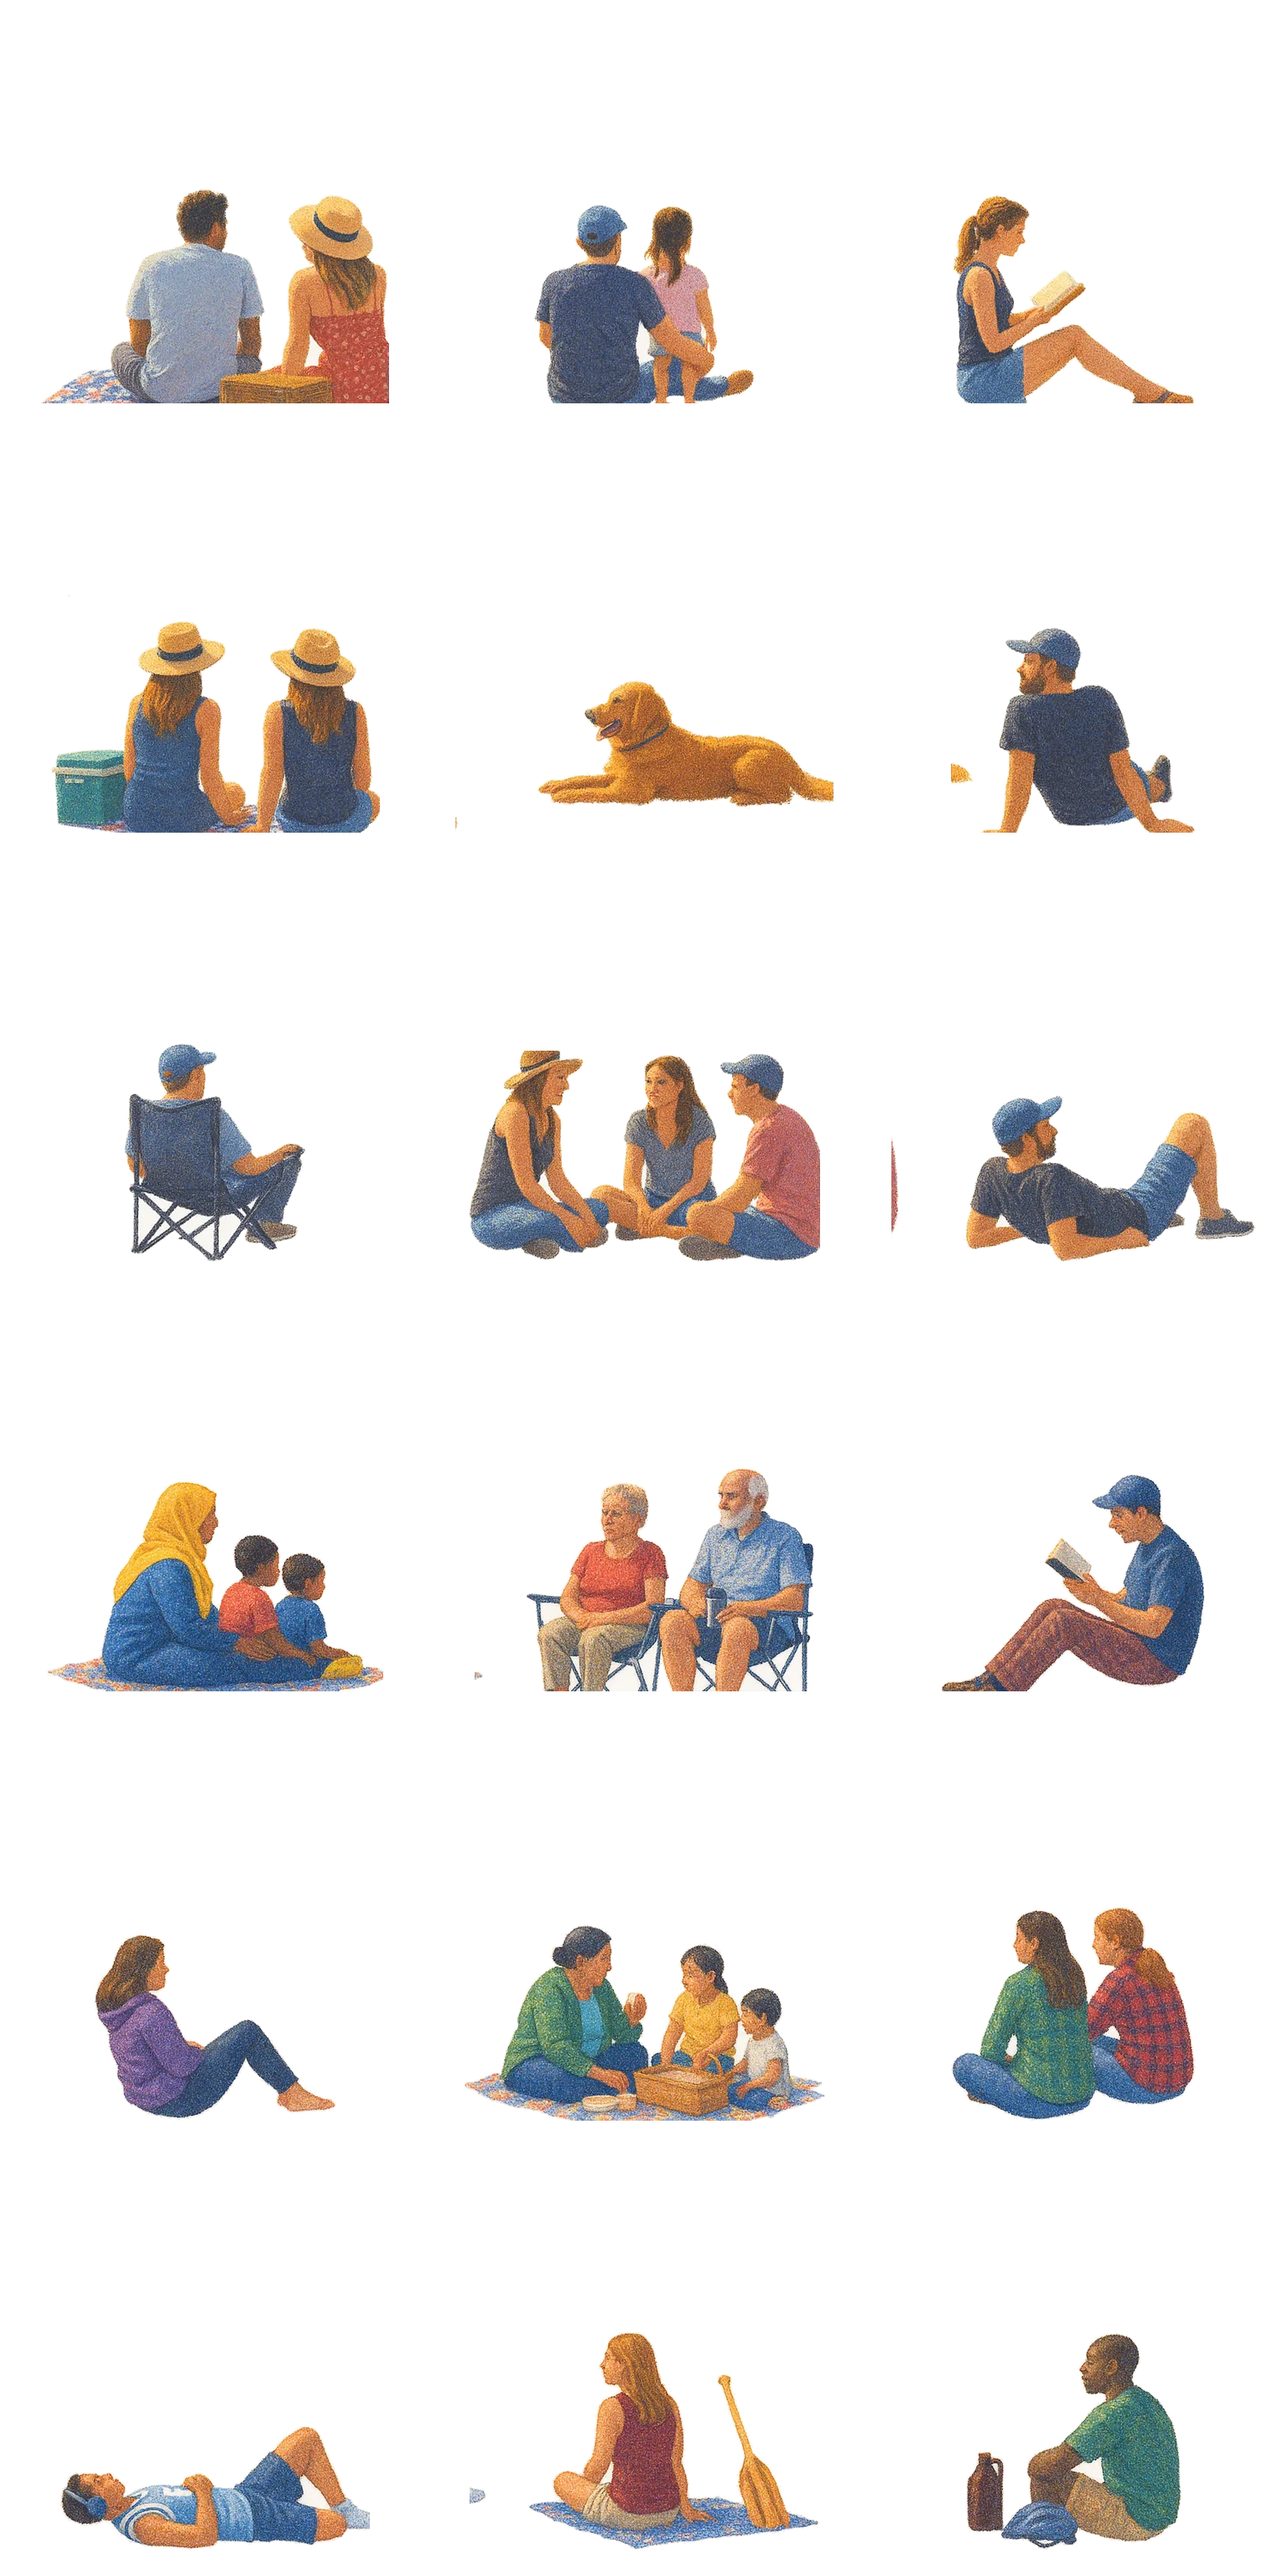
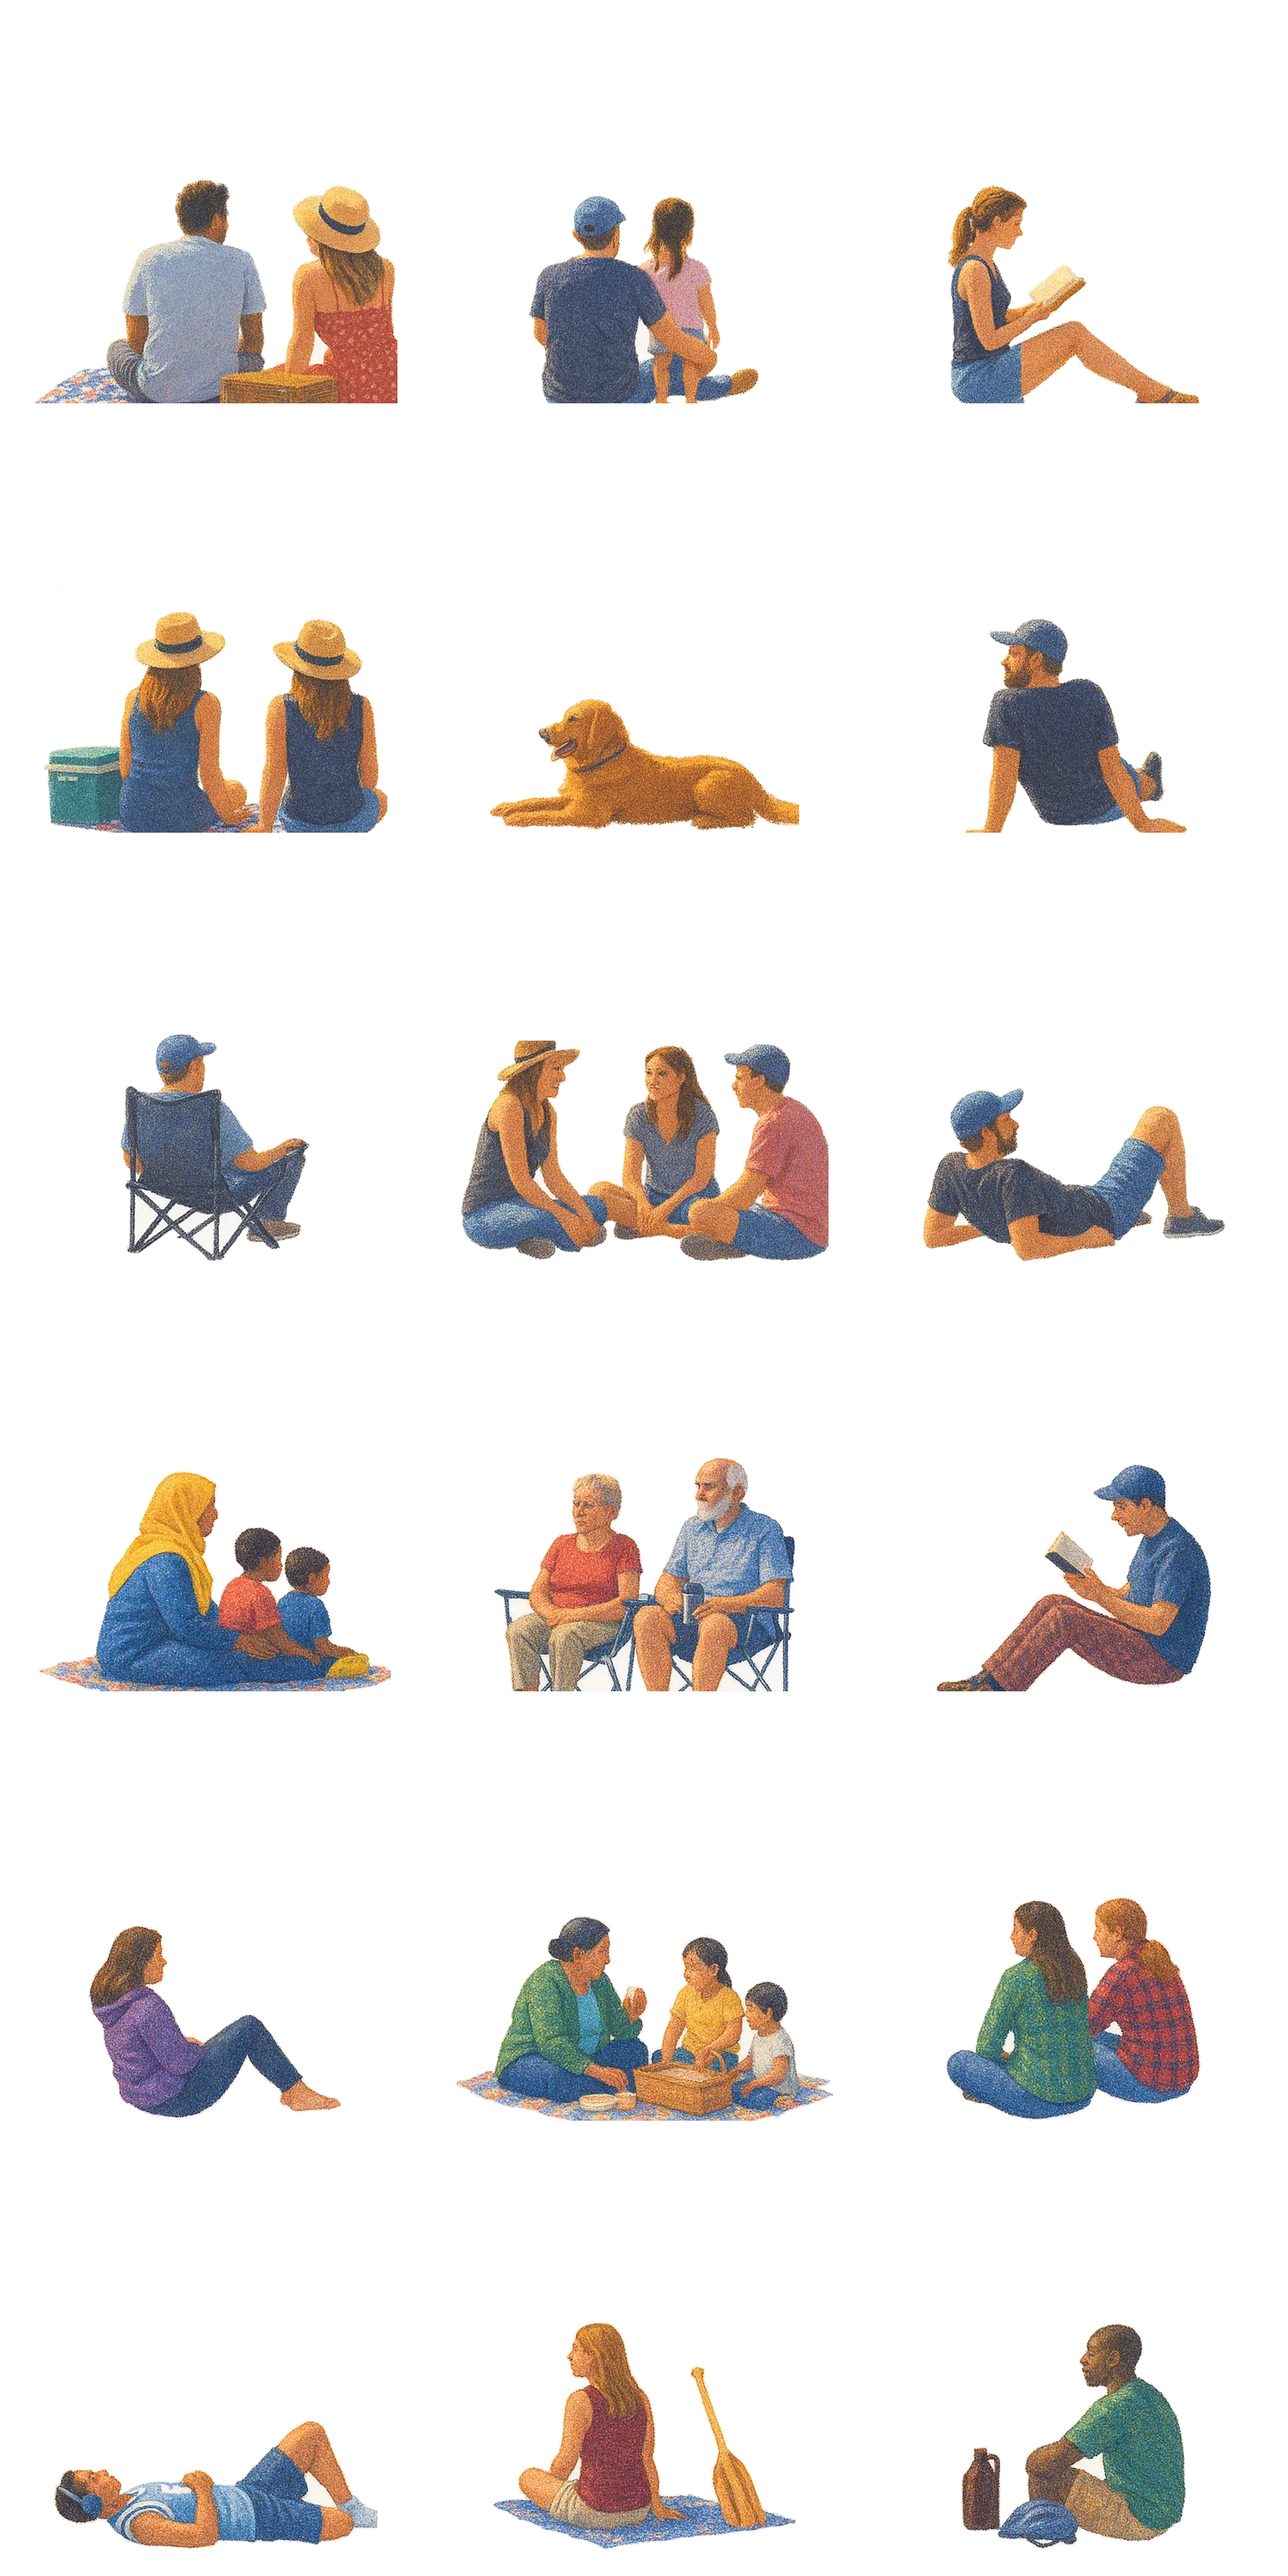
A neighbour's shoulder cleared too; the paddle moves left
The red shirt of the group beside the lying man overflowed sideways
into his cell and rode along as a needle down his tile's edge; a cell
now drops small blobs touching any of its edges. The woman with the
paddle sits on the other side of the lawn, away from him.

diff --git a/src/scenes/manifest.ts b/src/scenes/manifest.ts
@@ -1016,7 +1016,7 @@ export const scenes: Scene[] = [
           { id: 'thermos-couple', cell: 10, x: 5.4, z: 10.6 },
           { id: 'purple-hoodie', cell: 12, x: 7.6, z: 6.4 },
           { id: 'grandmother', cell: 13, x: -1.6, z: 6.4 },
-          { id: 'paddle', cell: 16, x: 3.4, z: 5.6 },
+          { id: 'paddle', cell: 16, x: -4.8, z: 5.3 },
           { id: 'growler', cell: 17, x: -13, z: 9.8 },
         ],
       },

diff --git a/assets/LEDGER.md b/assets/LEDGER.md
@@ -620,3 +620,8 @@ sheet, with no placement having a size of its own. And a quad sampled
 its texture rectangle to the tile's very edge, where a texel is half
 the neighbour's, which showed as a sliver of a neighbour down a quad's
 side; the rectangle is now pulled three percent inside the tile.
+
+Overflow from the side too: the red shirt of the group in the cell to
+the lying man's left ran sideways into his cell and rode along as a
+needle down his tile's edge. `ownBlobs` now clears small blobs touching
+any edge of a cell, not only the top and bottom.
